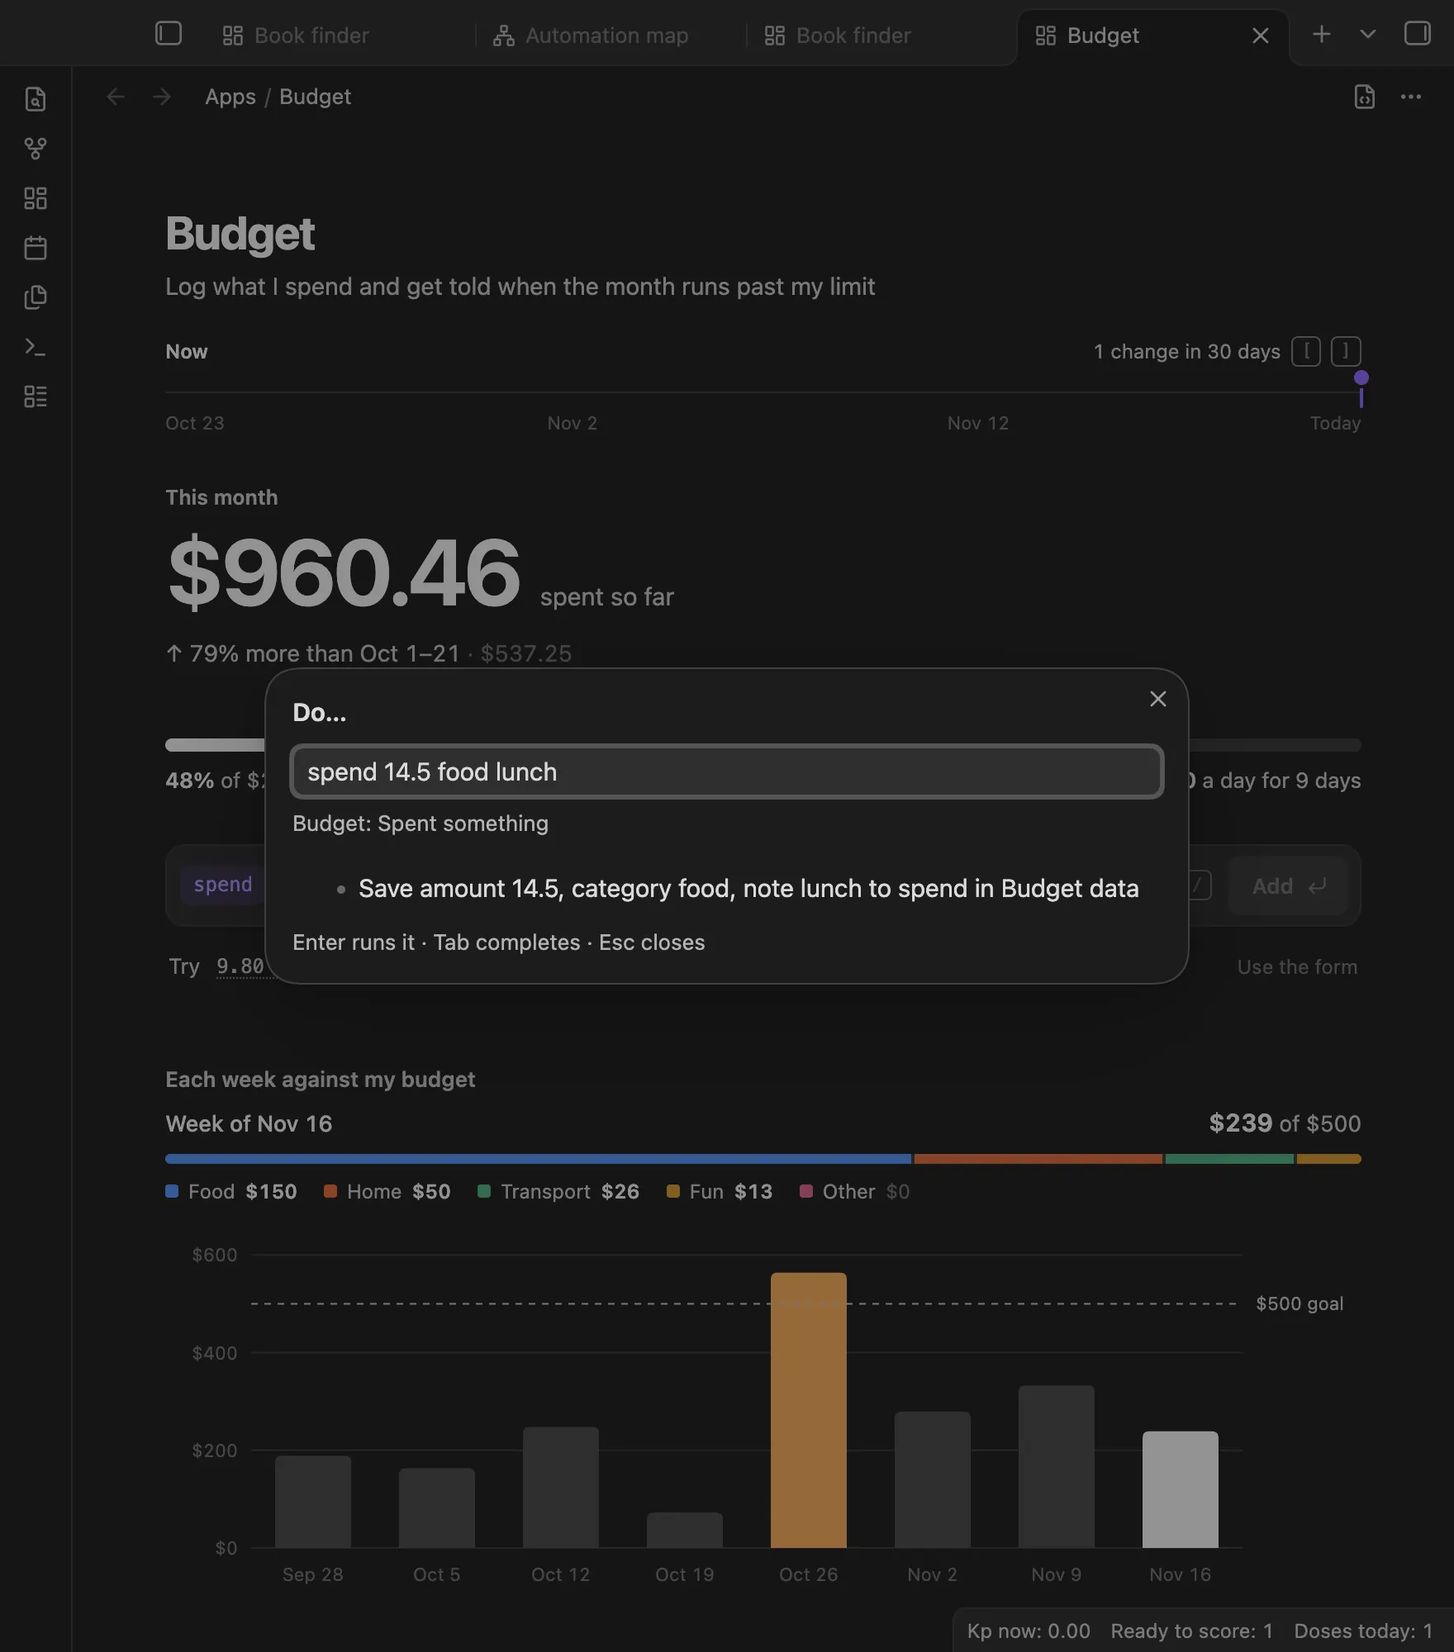
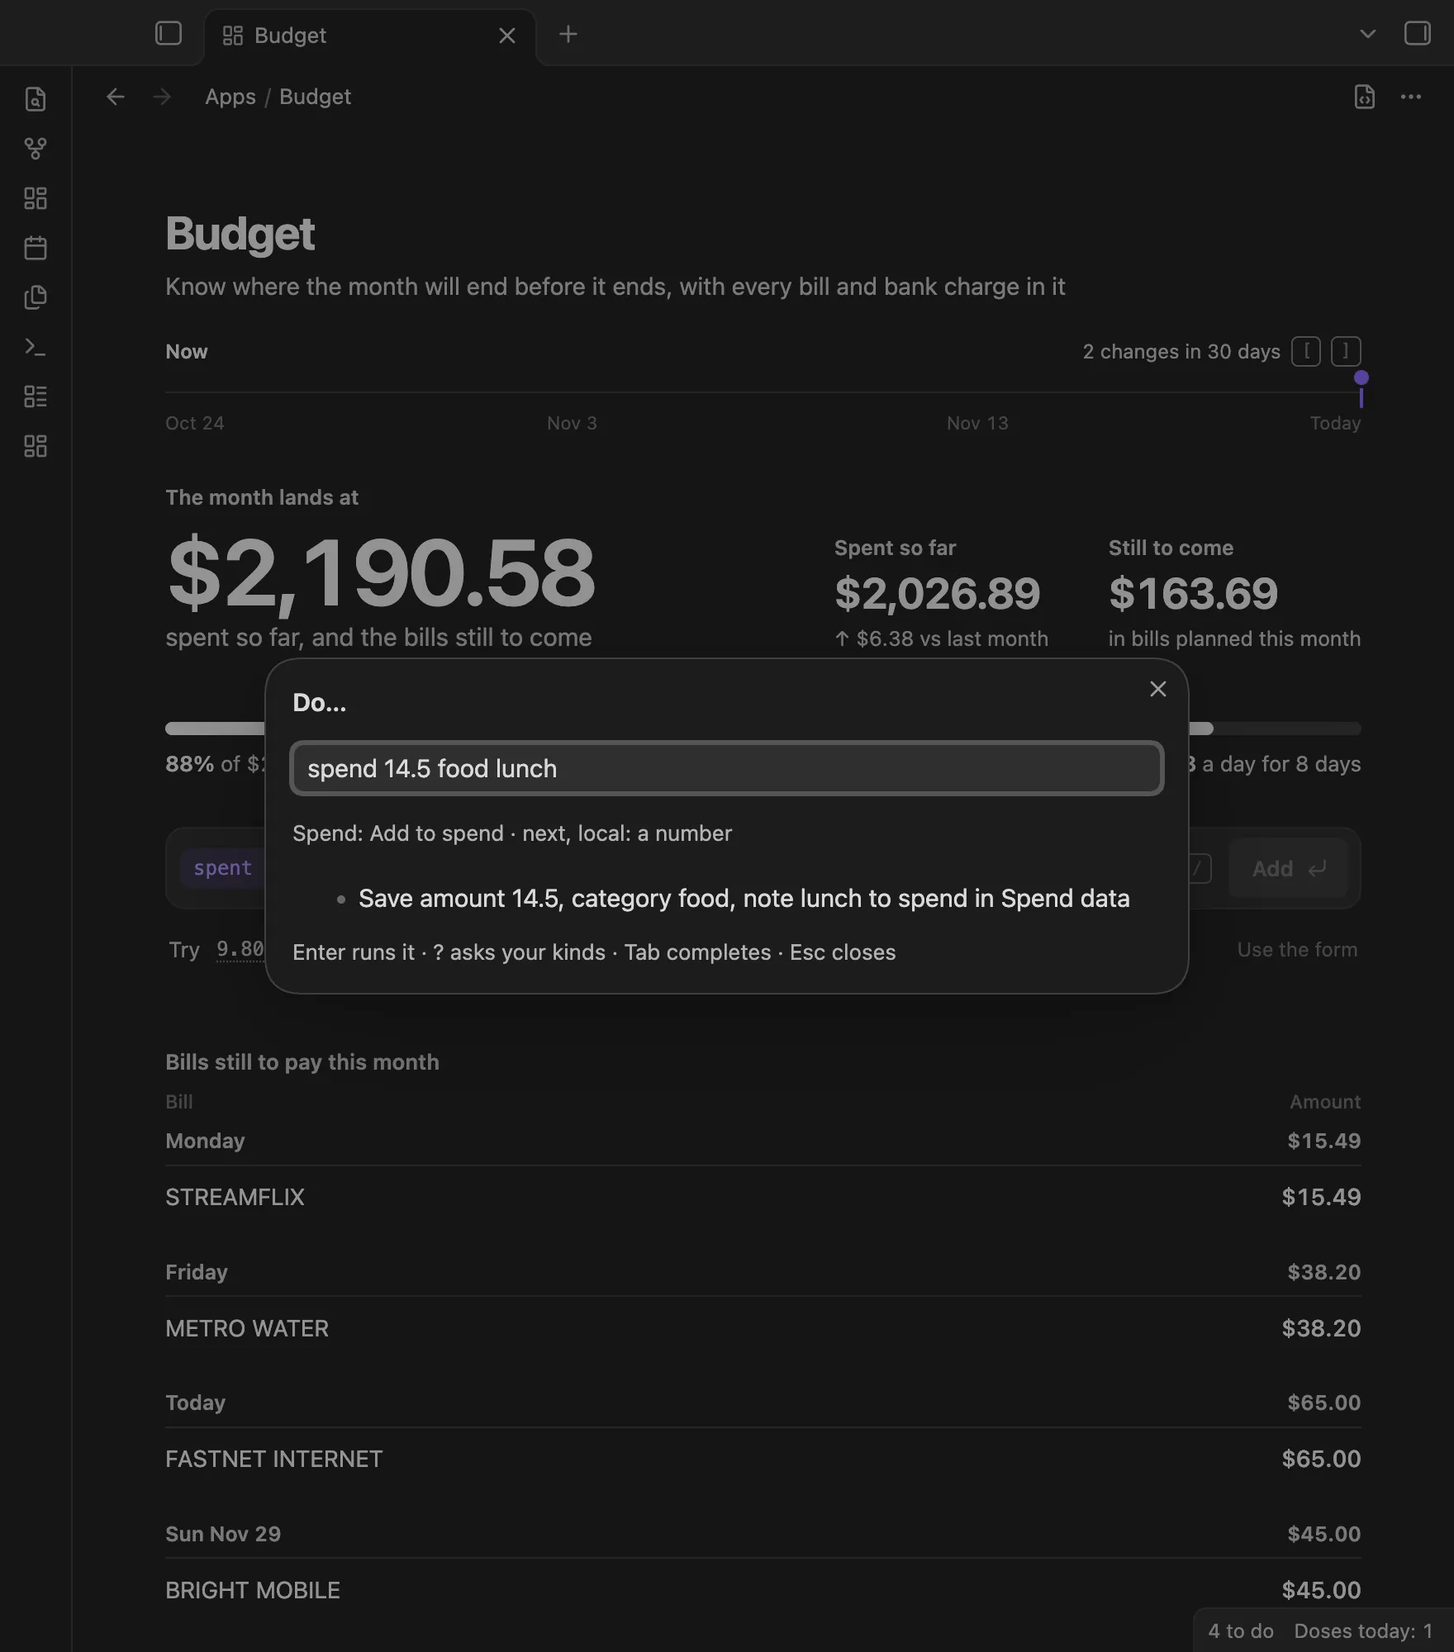
docs: the README for kinds, bank rows, Next, What if, the ask line and sharing
The opening is Practice on the Tracker kit. New sections cover one kind read
by many apps and sharing a kind; Network and files names what makes
requests, what a relay sees and where data lives. Images retaken on samples
for the day, with six new ones; the two Weight images are no longer used.

Claude-Session: https://claude.ai/code/session_01SsrsKovnB4RjRic5TJhWmq

diff --git a/README.md b/README.md
@@ -6,27 +6,93 @@ Gizmo is a plugin for Obsidian. It changes a note into a small app with buttons,
 
 ```yaml
 ---
-app: Log my weight and watch the trend toward my goal
+app: Log how long I practise and see this week against the last and the trend toward my goal
 use: "[[Tracker kit]]"
-with: {what: weight, unit: kg, goal: 75}
+with: {what: practice, unit: minutes, goal: 30}
 ---
 ```
 
 These three lines make this app:
 
 <picture>
-  <source media="(prefers-color-scheme: dark)" srcset="https://raw.githubusercontent.com/chauduyphanvu/obsidian-gizmo/main/docs/images/weight-dark.webp">
-  <img src="docs/images/weight-light.webp" alt="The Weight app: the latest weight, this week against last week, a line to log a weight, a chart of values against a goal line and the entries by week">
+  <source media="(prefers-color-scheme: dark)" srcset="https://raw.githubusercontent.com/chauduyphanvu/obsidian-gizmo/main/docs/images/practice-dark.webp">
+  <img src="docs/images/practice-light.webp" alt="The Practice app: the latest session of 35 minutes, this week's average against last week, a line to log minutes, a chart of each session against a dashed goal of 30 minutes, and the entries">
 </picture>
 
 ## Why Gizmo
 
 - **One plugin, many apps.** Each new app is a note, not a new plugin.
 - **No code.** You type each key by hand. Gizmo examines the keys and shows each problem in clear words.
-- **Your data stays in your vault.** Gizmo keeps it in Markdown notes that Bases and Dataview can read. There is no hidden database.
+- **Save a row one time.** A kind keeps rows for the full vault. Each app that reads the kind shows them.
+- **Plan, then check.** A row can be planned for a day to come, or come from the export of your bank. **Next** asks about each thing that needs you.
+- **Your data stays in your vault.** Gizmo keeps it in Markdown notes that Bases and Dataview can read, with a text log beside each note. There is no hidden database.
 - **You give permission first.** An app tells you what it will read, download, send and change. It does not start until you select **Allow**.
 - **Save from anywhere.** A hotkey, a line of text, a phone shortcut or a link can save data. The app does not have to be open.
 - **Undo for your vault.** Gizmo keeps a log of each change that an app makes, and you can undo each one.
+
+## One kind, many apps
+
+A kind is a note with `kind` and `fields`. Its rows belong to your vault, not to one app. This is the Spend kind of the gallery, without two of its fields and its match rule:
+
+```yaml
+---
+kind: spend
+shortcut: spend
+fields:
+  amount: {type: number, label: Spent, format: "$0,0.00"}
+  category: [food, home, transport, fun, travel, other]
+  note: text
+import:
+  bank: {folder: Inbox/Bank, at: Posted Date, amount: "-Amount", note: Description, where: {Amount: "< 0"}}
+---
+```
+
+An app reads the rows with `source: "[[Spend]]"` and adds a row with `save: "[[Spend]]"`. Budget, Bills and renewals and Trip planner all use Spend, so each bill and each cost of the trip count in the month of Budget. Refer to [Kinds](docs/reference.md#kinds).
+
+**Planned, logged and from a file.** A row that you save is logged. On a kind, a line for a day still to come plans a row: `spend 1450 home rent @every month from 2026-12-01 until 2027-12-01` plans one row for each month until then. When you log a row that matches a planned row, the planned row is settled. A panel shows only logged rows, unless it asks for more with `lines`, for example `lines: [logged, planned]`. Refer to [Lines](docs/reference.md#lines) and [Planned rows](docs/reference.md#planned-rows).
+
+**The export of your bank.** After you allow Spend, it reads each file in `Inbox/Bank`, and each new one. Budget shows a card until you allow Spend, and **Allow Spend** there does it. To read one file now, run **Gizmo: Import rows into a kind…**. The rows wait on a card that pairs each one with a row that you logged. Select **Accept**, **Not mine** or **Accept all**. A charge that pays a planned bill settles it. The same file read again adds nothing. Refer to [Import rows from a file](docs/reference.md#import-rows-from-a-file) and [Match and reconcile](docs/reference.md#match-and-reconcile).
+
+**What if…** Run **Gizmo: What if…** in an app, or start a line in **Gizmo: Do…** with `what if`, for example `what if spend 900 travel flight @2026-12-03`. The app shows a day to come, and the rows that you add there are what-if rows. A banner tells which alerts would go on, and when. Nothing real changes until you select **Keep as planned**, which makes them planned rows. **Discard** removes them. Refer to [What if](docs/reference.md#what-if).
+
+**The ask line.** In **Gizmo: Do…**, a line that starts with `?` asks a kind a question, for example `? spend food per week since sep` or `? spend by category this month`. Gizmo draws the answer while you type. An ask only reads, and it saves nothing. To keep the answer as a panel, select **Add to an app…**, **Copy YAML** or **Copy embed**. Refer to [The ask line](docs/reference.md#the-ask-line).
+
+**Next.** Run **Gizmo: Next**, or select the count in the status bar, for example "3 to do". It shows the things that need you, one at a time: a planned row whose time passed, rows from a file to check, a rule that still waits for a row, and a new person in a shared kind. Enter answers, `s` skips until tomorrow and `x` dismisses. Refer to [Next](docs/reference.md#next).
+
+<table>
+  <tr>
+    <td width="50%">
+      <picture>
+        <source media="(prefers-color-scheme: dark)" srcset="https://raw.githubusercontent.com/chauduyphanvu/obsidian-gizmo/main/docs/images/bank-dark.webp">
+        <img src="docs/images/bank-light.webp" alt="The card of charges from the bank in Budget: 14 rows from a file to check, 10 that pair with rows you logged and 4 only in the file, each with Accept and Not mine, and Accept all">
+      </picture>
+      <b>Check the bank.</b> The charges of an export wait on a card, beside the rows that you logged.
+    </td>
+    <td width="50%">
+      <picture>
+        <source media="(prefers-color-scheme: dark)" srcset="https://raw.githubusercontent.com/chauduyphanvu/obsidian-gizmo/main/docs/images/whatif-dark.webp">
+        <img src="docs/images/whatif-light.webp" alt="Budget in What if… as of the end of the month: a concert of 400 added as a what-if row, a banner that says the alert of The month lands at would go on, Keep as planned and Discard, and the month at $2,590.58, over the limit of $2,500">
+      </picture>
+      <b>What if…</b> A concert added as a what-if. At the end of the month, Budget is over its limit.
+    </td>
+  </tr>
+  <tr>
+    <td width="50%">
+      <picture>
+        <source media="(prefers-color-scheme: dark)" srcset="https://raw.githubusercontent.com/chauduyphanvu/obsidian-gizmo/main/docs/images/ask-dark.webp">
+        <img src="docs/images/ask-light.webp" alt="The Do… window with the line ? spend food per week since sep: a bar chart of the food spent each week, the YAML of the panel, and Add to an app…, Copy YAML and Copy embed">
+      </picture>
+      <b>Ask.</b> <code>? spend food per week since sep</code> draws the answer and the panel that it stands for.
+    </td>
+    <td width="50%">
+      <picture>
+        <source media="(prefers-color-scheme: dark)" srcset="https://raw.githubusercontent.com/chauduyphanvu/obsidian-gizmo/main/docs/images/next-dark.webp">
+        <img src="docs/images/next-light.webp" alt="The Next window over Budget: 65 home FASTNET INTERNET, planned Sun Nov 22, 09:00: did it happen? with Skip, Dismiss and It happened">
+      </picture>
+      <b>Next.</b> One ask at a time. Here, a bill that was planned for this morning.
+    </td>
+  </tr>
+</table>
 
 ## What you can make
 
@@ -37,16 +103,16 @@ The gallery has apps that are ready to use. Run **Gizmo: New app from the galler
     <td width="50%">
       <picture>
         <source media="(prefers-color-scheme: dark)" srcset="https://raw.githubusercontent.com/chauduyphanvu/obsidian-gizmo/main/docs/images/medication-dark.webp">
-        <img src="docs/images/medication-light.webp" alt="Medication log: the doses today, a streak, a button for each dose and a calendar of the year">
+        <img src="docs/images/medication-light.webp" alt="Medication log: the doses today, the next dose and the days on time, a button for each medication, today's doses with one taken and one due, and the top of a calendar of the year">
       </picture>
-      <b>Medication log.</b> One button for each dose, a streak and a calendar of the year.
+      <b>Medication log.</b> A button for each medication, the doses due and missed, a refill countdown and a summary for the doctor.
     </td>
     <td width="50%">
       <picture>
         <source media="(prefers-color-scheme: dark)" srcset="https://raw.githubusercontent.com/chauduyphanvu/obsidian-gizmo/main/docs/images/budget-dark.webp">
-        <img src="docs/images/budget-light.webp" alt="Budget: the month total against a limit with an even-pace mark, a line to add what you spend and a chart of each week by category">
+        <img src="docs/images/budget-light.webp" alt="Budget: where the month lands against a limit of $2,500 with an even-pace mark, what is spent and what is still to come, a line to add what you spend, and the bills still to pay this month">
       </picture>
-      <b>Budget.</b> The month total against your limit, and each week by category.
+      <b>Budget.</b> Where the month will land against your limit, with each bill and bank charge in it.
     </td>
   </tr>
   <tr>
@@ -67,7 +133,7 @@ The gallery has apps that are ready to use. Run **Gizmo: New app from the galler
   </tr>
 </table>
 
-The gallery also has Weight, Sleep, Household chores, Book finder, Task inbox, Trip planner, Watchlist, Aurora watch and Read later.
+The gallery also has Bills and renewals, Vitals, Practice, Household chores, Book finder, Task inbox, Trip planner, Trades, Aurora watch and Read later, and six kinds: Spend, Renewal, Dose, Measurement, Trade and Chore.
 
 ## Use it everywhere
 
@@ -83,7 +149,7 @@ The gallery also has Weight, Sleep, Household chores, Book finder, Task inbox, T
     <td width="50%">
       <picture>
         <source media="(prefers-color-scheme: dark)" srcset="https://raw.githubusercontent.com/chauduyphanvu/obsidian-gizmo/main/docs/images/capture-dark.webp">
-        <img src="docs/images/capture-light.webp" alt="The Do… window with the line spend 14.5 food lunch and a preview of the row that it will save">
+        <img src="docs/images/capture-light.webp" alt="The Do… window over Budget with the line spend 14.5 food lunch and a preview of the row that it will save to Spend">
       </picture>
       <b>From one line.</b> <b>Gizmo: Do…</b> saves <code>spend 14.5 food lunch</code> and shows the result first.
     </td>
@@ -91,6 +157,32 @@ The gallery also has Weight, Sleep, Household chores, Book finder, Task inbox, T
 </table>
 
 Gizmo also adds board, calendar, timeline, chart and number views to Obsidian Bases. A value can stay in the status bar. A phone shortcut or a link can run an app, and `gizmod` does background work when Obsidian is closed.
+
+## Share a kind
+
+Two or more people can keep one kind together, each in their own vault, for example the chores of a household. Add `share` to the kind note. The Chore and Dose kinds of the gallery have this line, with a `#` before it to keep it off:
+
+```yaml
+share: {relay: "https://ntfy.sh", key: {secret: chore-key}}
+```
+
+Then run **Gizmo: Invite to a kind** in that note. The first time, Gizmo asks for your name, makes the key of the kind and keeps it in Obsidian's secret storage. It gives a link, `obsidian://gizmo?invite=…`, which you send in a private message. The other person opens the link in Obsidian, sees what it will make, and selects **Join**. **Gizmo: Join a shared kind from an invite** accepts the link as text. Nothing goes out until the kind note has your **Allow**. Rows from a person whom you did not accept wait in **Next**.
+
+<table>
+  <tr>
+    <td width="40%">
+      <picture>
+        <source media="(prefers-color-scheme: dark)" srcset="https://raw.githubusercontent.com/chauduyphanvu/obsidian-gizmo/main/docs/images/guest-dark.webp">
+        <img src="docs/images/guest-light.webp" alt="A guest page for Chore on a phone: it is for Sitter, each row goes to Alex sealed through ntfy.sh, and a form with Chore, Who, Area, Note and When">
+      </picture>
+    </td>
+    <td width="60%">
+      <b>A guest page.</b> <b>Gizmo: Make a guest page</b> writes one HTML file beside the kind note, and gives a code. A sitter or a carer opens the file on a phone, without Gizmo, and adds rows. The page cannot read the rows of the kind. To end it, select <b>Remove</b> under <b>Shared kinds</b> on the automation map.
+      <br><br>
+      Refer to <a href="docs/reference.md#shared-kinds">Shared kinds</a>, and to <a href="#network-and-files">Network and files</a> for what the relay sees.
+    </td>
+  </tr>
+</table>
 
 ## You stay in control
 
@@ -106,9 +198,9 @@ Gizmo also adds board, calendar, timeline, chart and number views to Obsidian Ba
     <td width="50%">
       <picture>
         <source media="(prefers-color-scheme: dark)" srcset="https://raw.githubusercontent.com/chauduyphanvu/obsidian-gizmo/main/docs/images/map-dark.webp">
-        <img src="docs/images/map-light.webp" alt="The automation map: each app with what it reads, downloads, sends and changes">
+        <img src="docs/images/map-light.webp" alt="The automation map: Budget reads and changes the rows of Spend and answers two shortcuts, and the Chore kind below it uses a saved secret and shares its rows through ntfy.sh">
       </picture>
-      <b>One map.</b> See what each app reads, downloads, sends and changes. Remove a permission with one click.
+      <b>One map.</b> See what each app reads, downloads, sends and changes, and who writes to each shared kind. Remove a permission with one click.
     </td>
   </tr>
 </table>
@@ -117,9 +209,13 @@ A `Gizmo policy` note tells which notes are private and where their data can go.
 
 ## Network and files
 
-Gizmo makes no network requests of its own. It has no telemetry, no account and no update check. In Obsidian, it reads and writes only the notes of your vault and its own plugin folder.
+Gizmo has no telemetry, no account and no update check. In Obsidian, it reads and writes only the files of your vault and its own plugin folder. It makes network requests only in these cases:
 
-An app goes online only if its note names a web address: a `source`, a feed, an image in a cell, or a request that sends data. It does so only after you allow that app, and the permission card names each address. The automation map lists them all. These gallery apps use public services:
+- **A note names a web address**: a `source`, a feed, an image in a cell, or a request that sends data. The app does so only after you allow it, and the permission card names each address. The automation map lists them all.
+- **Install an app from a link or text** downloads the app from the address that you give, for example a GitHub Gist.
+- **A shared kind** sends its rows to the ntfy server in its `share` key, and reads the rows of the others from there. It does so only when the note has `share`, its secret holds the key, and you selected **Allow** on the kind note. No gallery note shares anything until you remove the `#` before its `share` line.
+
+These gallery apps use public services:
 
 | App | Service |
 | --- | --- |
@@ -127,9 +223,29 @@ An app goes online only if its note names a web address: a `source`, a feed, an 
 | Book finder | Open Library |
 | Read later | NPR and BBC news feeds |
 | Trip planner | Frankfurter (exchange rates) and Open-Meteo (weather) |
-| Watchlist | Yahoo Finance |
+| Trades | Yahoo Finance |
 
-**Install an app from a link or text** downloads the app from the address that you give, for example a GitHub Gist.
+**What the relay sees.** Gizmo seals each row with the key of the kind before it leaves your device. The relay sees the sealed text, its size, when it comes and goes, the address of the device that sends or reads it, and a topic made from the key. It cannot read a row, its fields, the name of the kind or your name, and it cannot change a message. A guest page loads nothing from the web, and it can reach only the relay.
+
+**The limits of sharing.**
+
+- Each person with the key can read every row and add rows. Its writer can add, change and take back a row; nobody else can, so a row that someone else wrote shows as theirs, and **Not mine** sets it aside in your vault. The invite link holds the key, so send it only to the people you share with.
+- **Remove** stops the rows of one key, in your vault only. It does not take back what that person read, and they still have the key of the kind.
+- To shut someone out, give `key` a new secret, run **Invite to a kind** to make a new key, and invite the others again.
+- The public ntfy.sh keeps a message for about 12 hours. A vault that is offline longer catches up later, from the summaries that each vault sends every hour.
+
+Refer to [What the relay and others can see](docs/reference.md#what-the-relay-and-others-can-see).
+
+**Where your data is.**
+
+| What | Where |
+| --- | --- |
+| Rows that an app saves | `<App> data.md` beside the app, and a log of each change in `<App> data/log/`. |
+| Rows of a kind | `<Kind> data.md` beside the kind note holds the logged rows. `<Kind> data/log/` holds the rows of all lines, in files that each device writes. |
+| What-if rows | A `.branch` file of this device in that log folder, until **Keep as planned** or **Discard**. |
+| The key of a shared kind | Obsidian's secret storage, never a note. |
+| A guest page | `<Kind> guest page (<name>).html` beside the kind note. Its code stays in the browser that uses it. |
+| What each device sent of a shared kind, the people you accepted, permissions, activity and settings | The plugin folder. |
 
 ### gizmod
 
@@ -140,6 +256,7 @@ An app goes online only if its note names a web address: a `source`, a feed, an 
 - `gizmod install` adds a launchd agent (macOS) that starts it at each login and writes a log to `~/Library/Logs`. `gizmod uninstall` removes the agent.
 - It answers HTTP on port 7468, on this computer and on its Tailscale address, so that a phone shortcut can run an app. A request without the key of that shortcut does nothing.
 - It sends alerts to your phone through [ntfy](https://ntfy.sh) only if you set `GIZMOD_NTFY_URL`.
+- It sends and reads the rows of a shared kind through its relay only if you allowed that kind in Obsidian and give gizmod its key in `GIZMO_SECRET_<ID>`.
 
 ## Install
 
@@ -152,7 +269,7 @@ Gizmo 0.3.0 operates with Obsidian 1.11.4 or later, on desktop and on mobile.
 
 ## Learn more
 
-The [reference](docs/reference.md) has the full details: how to write an app, all keys, views and sources, permissions, links, devices, `gizmod` and development.
+The [reference](docs/reference.md) has the full details: how to write an app, all keys, views and sources, kinds and shared kinds, permissions, links, devices, `gizmod`, all commands and development.
 
 ```sh
 npm install && npm run build && npm test
